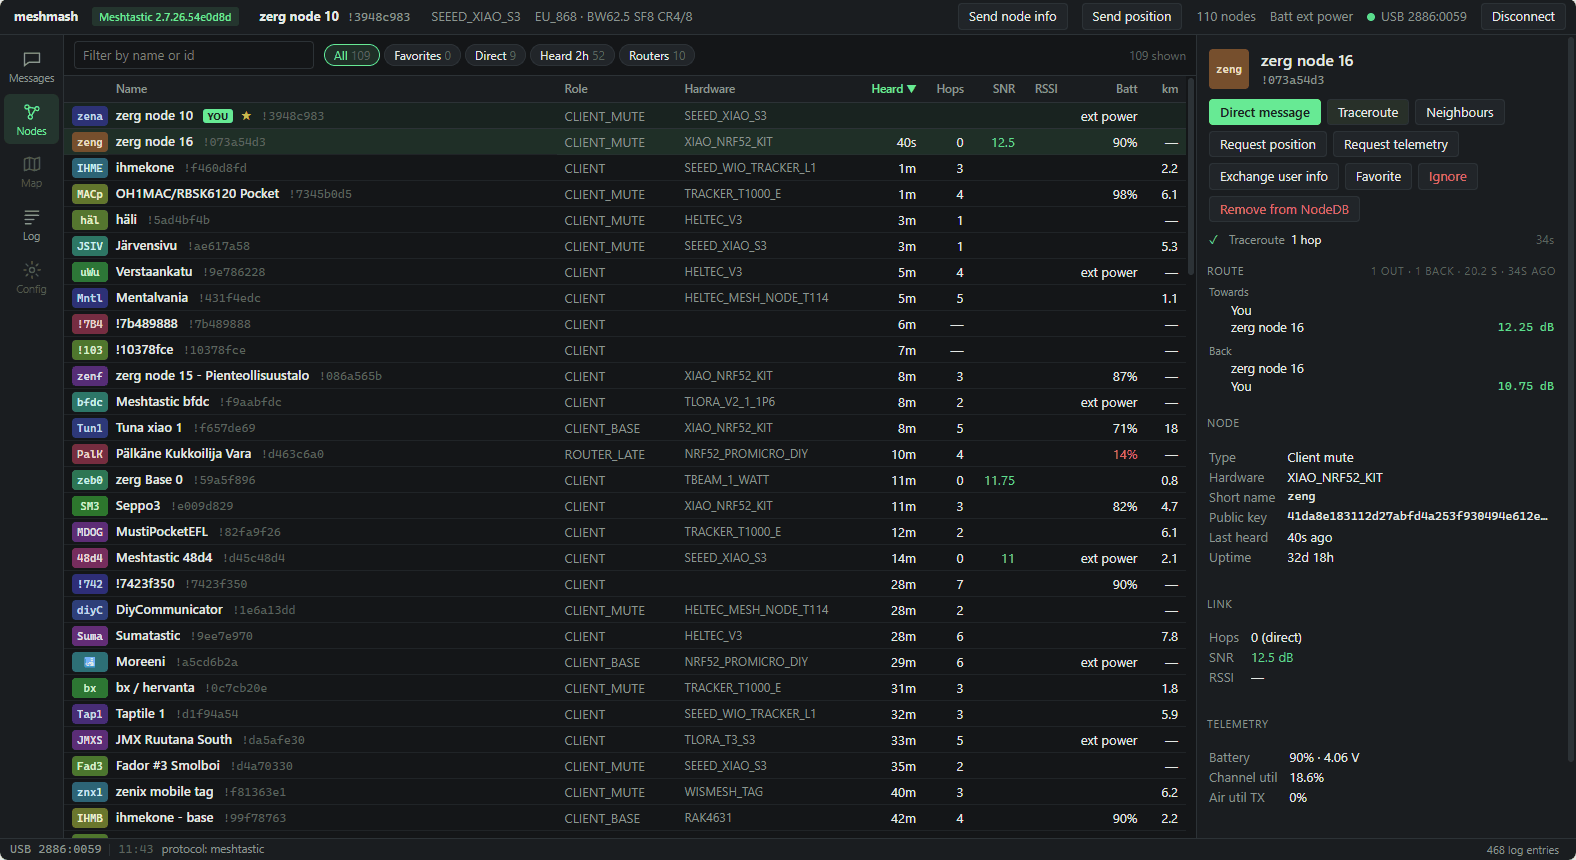
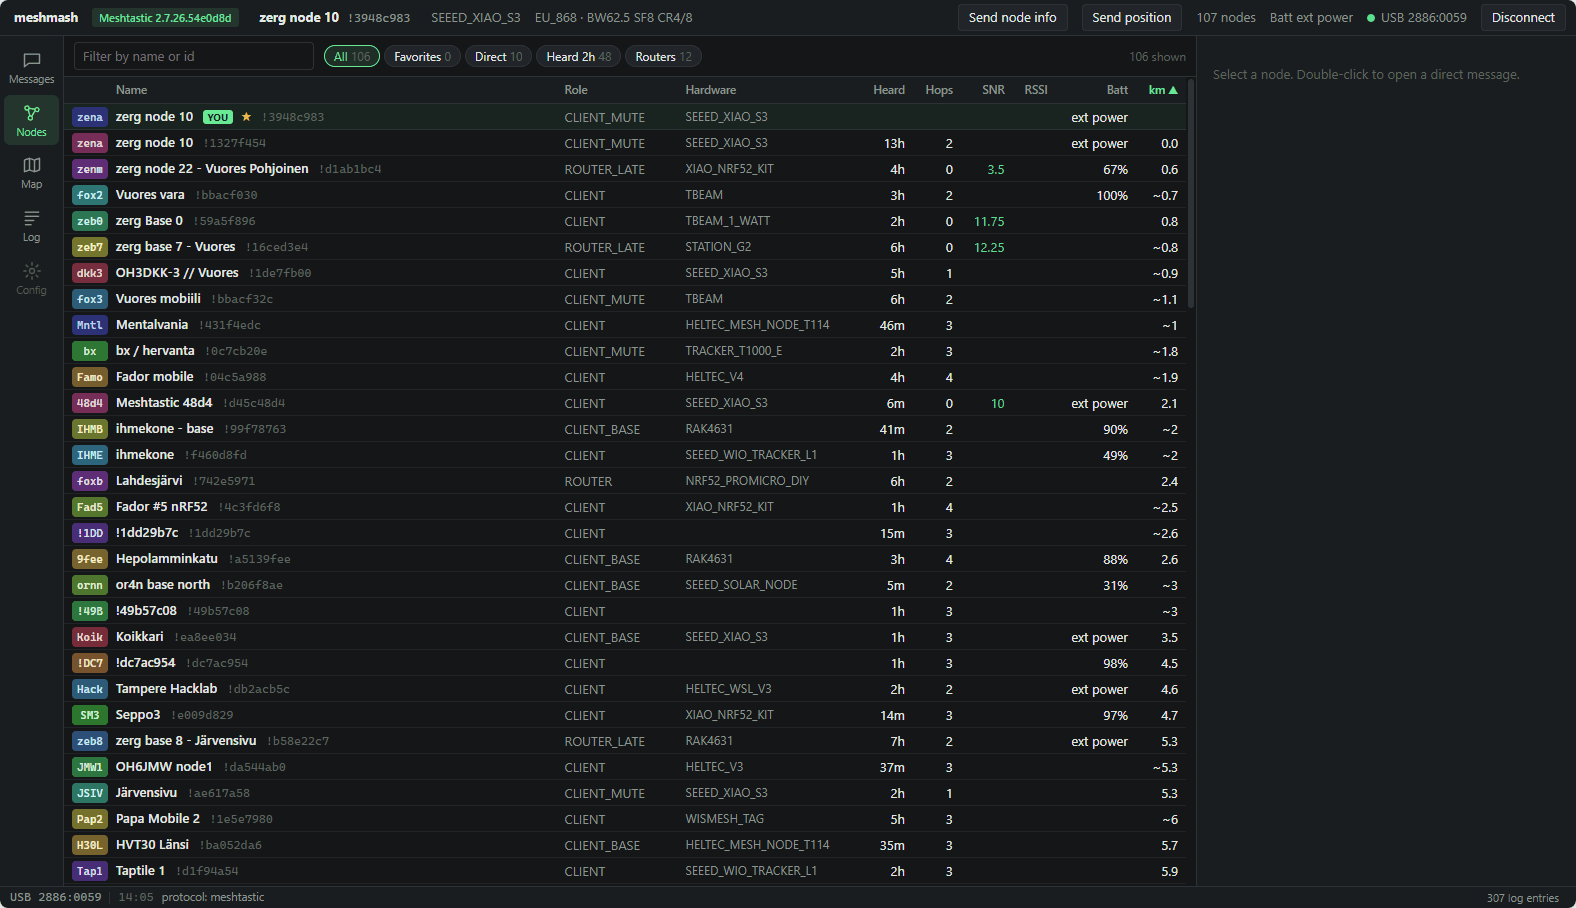
Docs: map, coarse distances, share contact, precision_bits in NodeDB; screenshots

diff --git a/README.md b/README.md
@@ -14,6 +14,8 @@ the radio directly over Web Serial, and everything it keeps stays in the browser
 - Protocol and firmware detection; the interface follows the radio's capabilities
 - Channels and direct messages with delivery state, search, unread markers and per-thread byte limits
 - Node list with filters, signal, hops, battery and distance; node details with telemetry history charts
+- Map: OpenStreetMap tiles, node markers by type and last heard, direct links, traceroute and neighbour links of the selected node
+- Distances from coarse positions marked `~`; selected node's position uncertainty drawn on the map
 - Reconnects automatically after a USB drop or page reload
 - Raw protocol log
 - Message history and node data stored per radio in IndexedDB
@@ -23,6 +25,7 @@ the radio directly over Web Serial, and everything it keeps stays in the browser
 - Position, telemetry, user info and neighbour info requests
 - Replies and emoji reactions
 - PKI-encrypted direct messages marked 🔒, with readable PKI error messages
+- Position precision (`precision_bits`), also inferred for NodeDB positions that lack it
 - Favourite, ignore, remove from NodeDB
 
 **MeshCore**
@@ -32,15 +35,17 @@ the radio directly over Web Serial, and everything it keeps stays in the browser
 - Room server posts with authors
 - Discover nearby nodes (both-way SNR)
 - Contact links (`meshcore://contact/add`), auto-add settings, adding heard-but-unsaved nodes
+- Share contact (zero-hop re-send of a stored advert) for all contact types
 - Radio clock set on connect
 
 ## Screenshots
 
 | | |
 |---|---|
-| ![Meshtastic channel messages](docs/screenshots/mt-messages.png) Meshtastic channel | ![Meshtastic nodes and traceroute](docs/screenshots/mt-nodes.png) Meshtastic nodes, traceroute |
+| ![Map with a coarse position selected](docs/screenshots/mt-map.png) Map, coarse position selected | ![Meshtastic nodes by distance](docs/screenshots/mt-nodes.png) Meshtastic nodes by distance, `~` = coarse |
+| ![Meshtastic channel messages](docs/screenshots/mt-messages.png) Meshtastic channel | ![Protocol log](docs/screenshots/mc-log.png) Protocol log |
 | ![MeshCore channel messages](docs/screenshots/mc-messages.png) MeshCore channel | ![MeshCore trace path history](docs/screenshots/mc-route.png) MeshCore two-hop trace and history |
-| ![Protocol log](docs/screenshots/mc-log.png) Protocol log | ![Connect screen](docs/screenshots/connect.png) Connect screen |
+| ![Connect screen](docs/screenshots/connect.png) Connect screen | |
 
 ## Requirements
 
@@ -48,7 +53,7 @@ the radio directly over Web Serial, and everything it keeps stays in the browser
 - A Meshtastic or MeshCore (companion USB firmware) radio connected by USB
 - Demo modes for both protocols work without a radio
 
-Bluetooth, the map view and radio configuration are not implemented yet.
+Bluetooth and radio configuration are not implemented yet.
 
 ## Development
 

diff --git a/docs/meshtastic/advanced-features.md b/docs/meshtastic/advanced-features.md
@@ -599,6 +599,12 @@ Client-side limit: one `POSITION_APP` per 10 s (§0.3).
   | 13 (2.7.x factory ch 0) | 0.0524 | 5.84 km | | 18 | 0.0016 | 182 m |
   | 14 | 0.0262 | 2.92 km | | 19 | 0.0008 | 91 m |
 - `precision_bits (23)` in the sent Position = N.
+- NodeDB positions sent to the client (`FromRadio.node_info`) **lack `precision_bits`**:
+  `TypeConversions::ConvertToPosition` copies only lat/lon/alt/time/location_source (2.7.26),
+  although `PositionLite.precision_bits (6)` is stored. Only live `POSITION_APP` packets carry it.
+  N can be recovered: a truncated coordinate has its lowest set bit at 31 − N in both
+  `latitude_i` and `longitude_i`. An exact position matches that by chance with probability
+  4^−(31−N); meshmash infers N only for 31 − N ≥ 8 (N ≤ 23, cell ≥ 5.7 m).
 - Missing `module_settings`: 2.7.15–2.7.23 treat PRIMARY as 32 (full) and secondaries as 0;
   2.7.24+ (`PositionPrecision.cpp`) treat any channel without module_settings as **0**.
 - 2.8: on channels whose effective key is publicly known (no PSK, 1-byte PSK, well-known names)

diff --git a/docs/meshcore/companion-protocol.md b/docs/meshcore/companion-protocol.md
@@ -160,6 +160,11 @@ existed at 1.4.0.
 | 65 | SEND_RAW_PACKET | 1.16.0 | priority u8, raw packet | OK / ERR |
 | 66 | RUN_CLI_COMMAND | **1.18.0** | CLI text | CLI_REPLY (29) |
 
+`SHARE_CONTACT` (16) re-sends the contact's last advert as stored by the radio, unchanged and
+zero-hop (`BaseChatMesh::shareContactZeroHop`). Works for any contact type. ERR(2): no such
+contact. ERR(3): no stored advert (e.g. a contact added with ADD_UPDATE_CONTACT or from a link
+and never heard) or no free packet.
+
 Any other code gets `[1][1]` (`ERR_CODE_UNSUPPORTED_CMD`). A command that is shorter than
 its length check also falls through to this generic error. For example, `CMD_SEND_LOGIN`
 shorter than 33 bytes returns ERR(1), not ERR(6).
